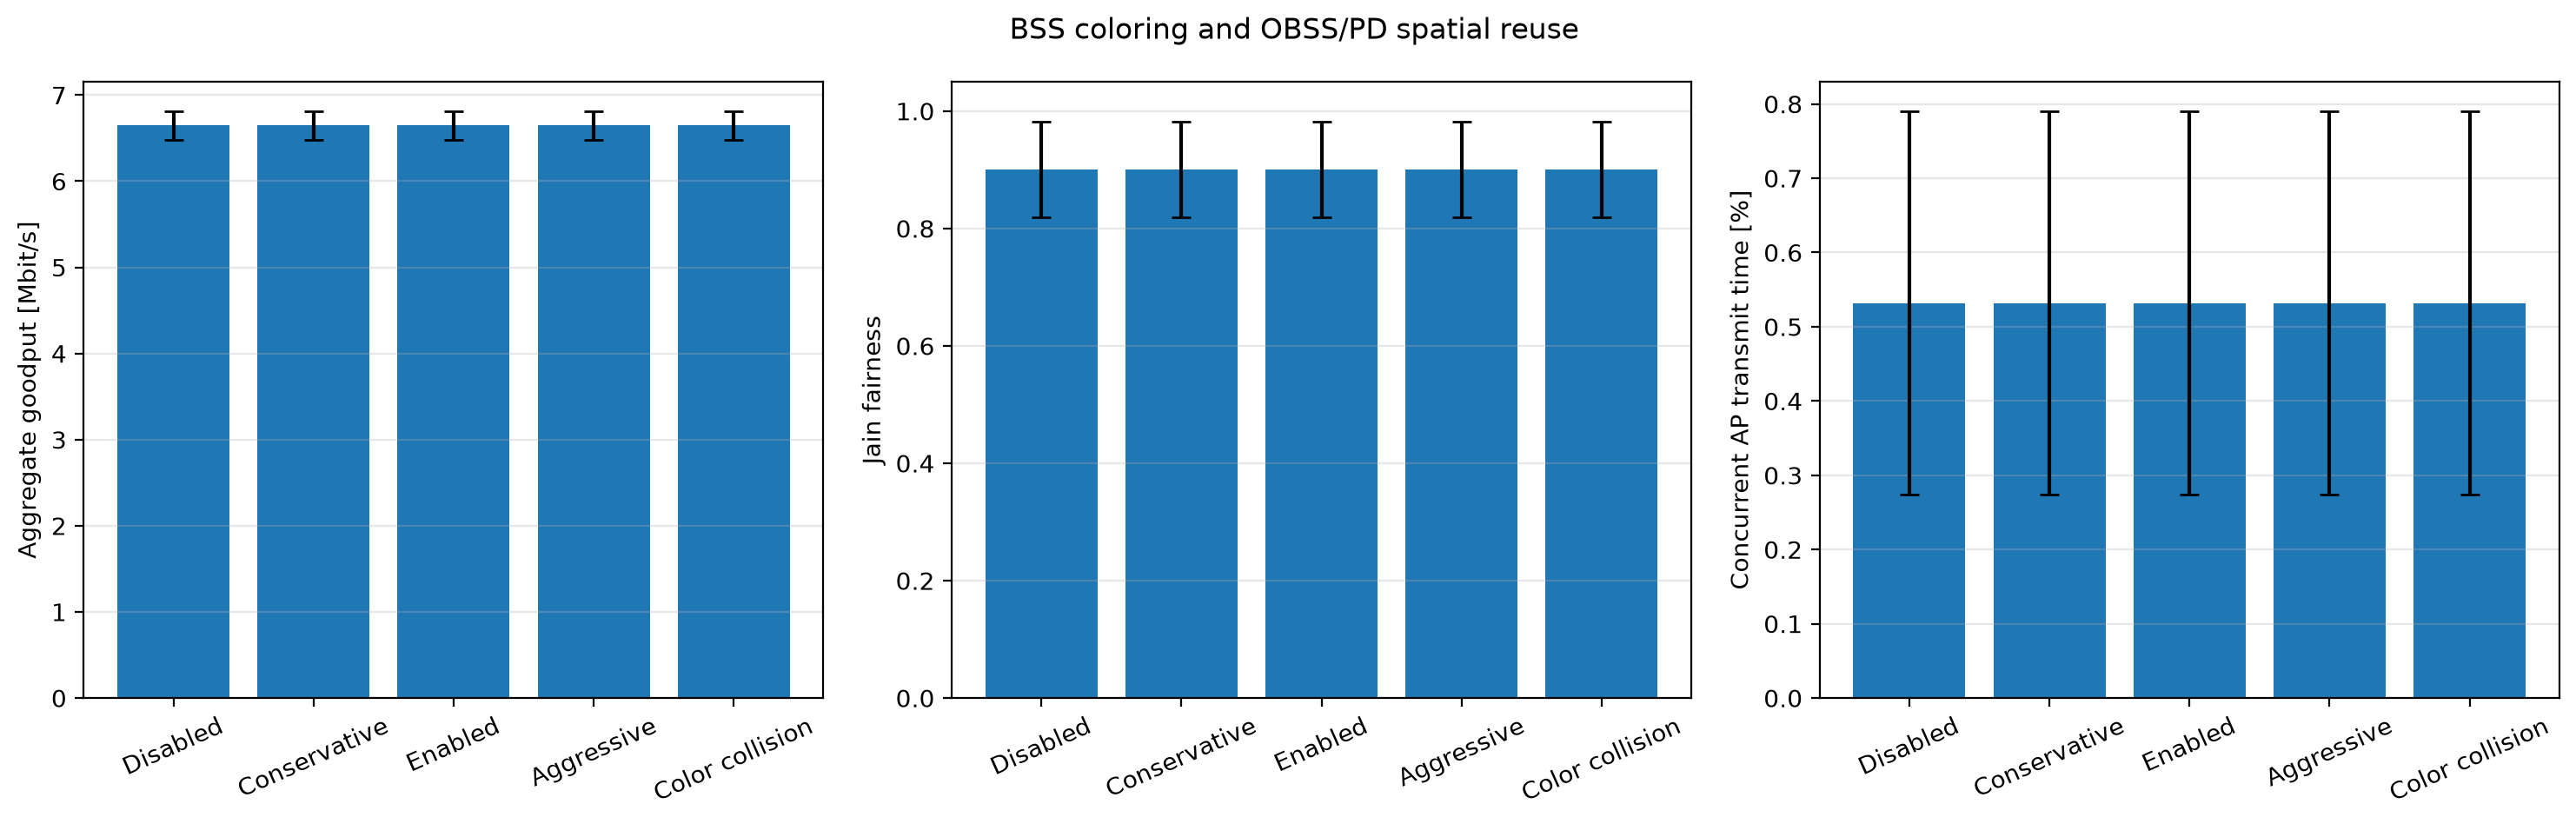
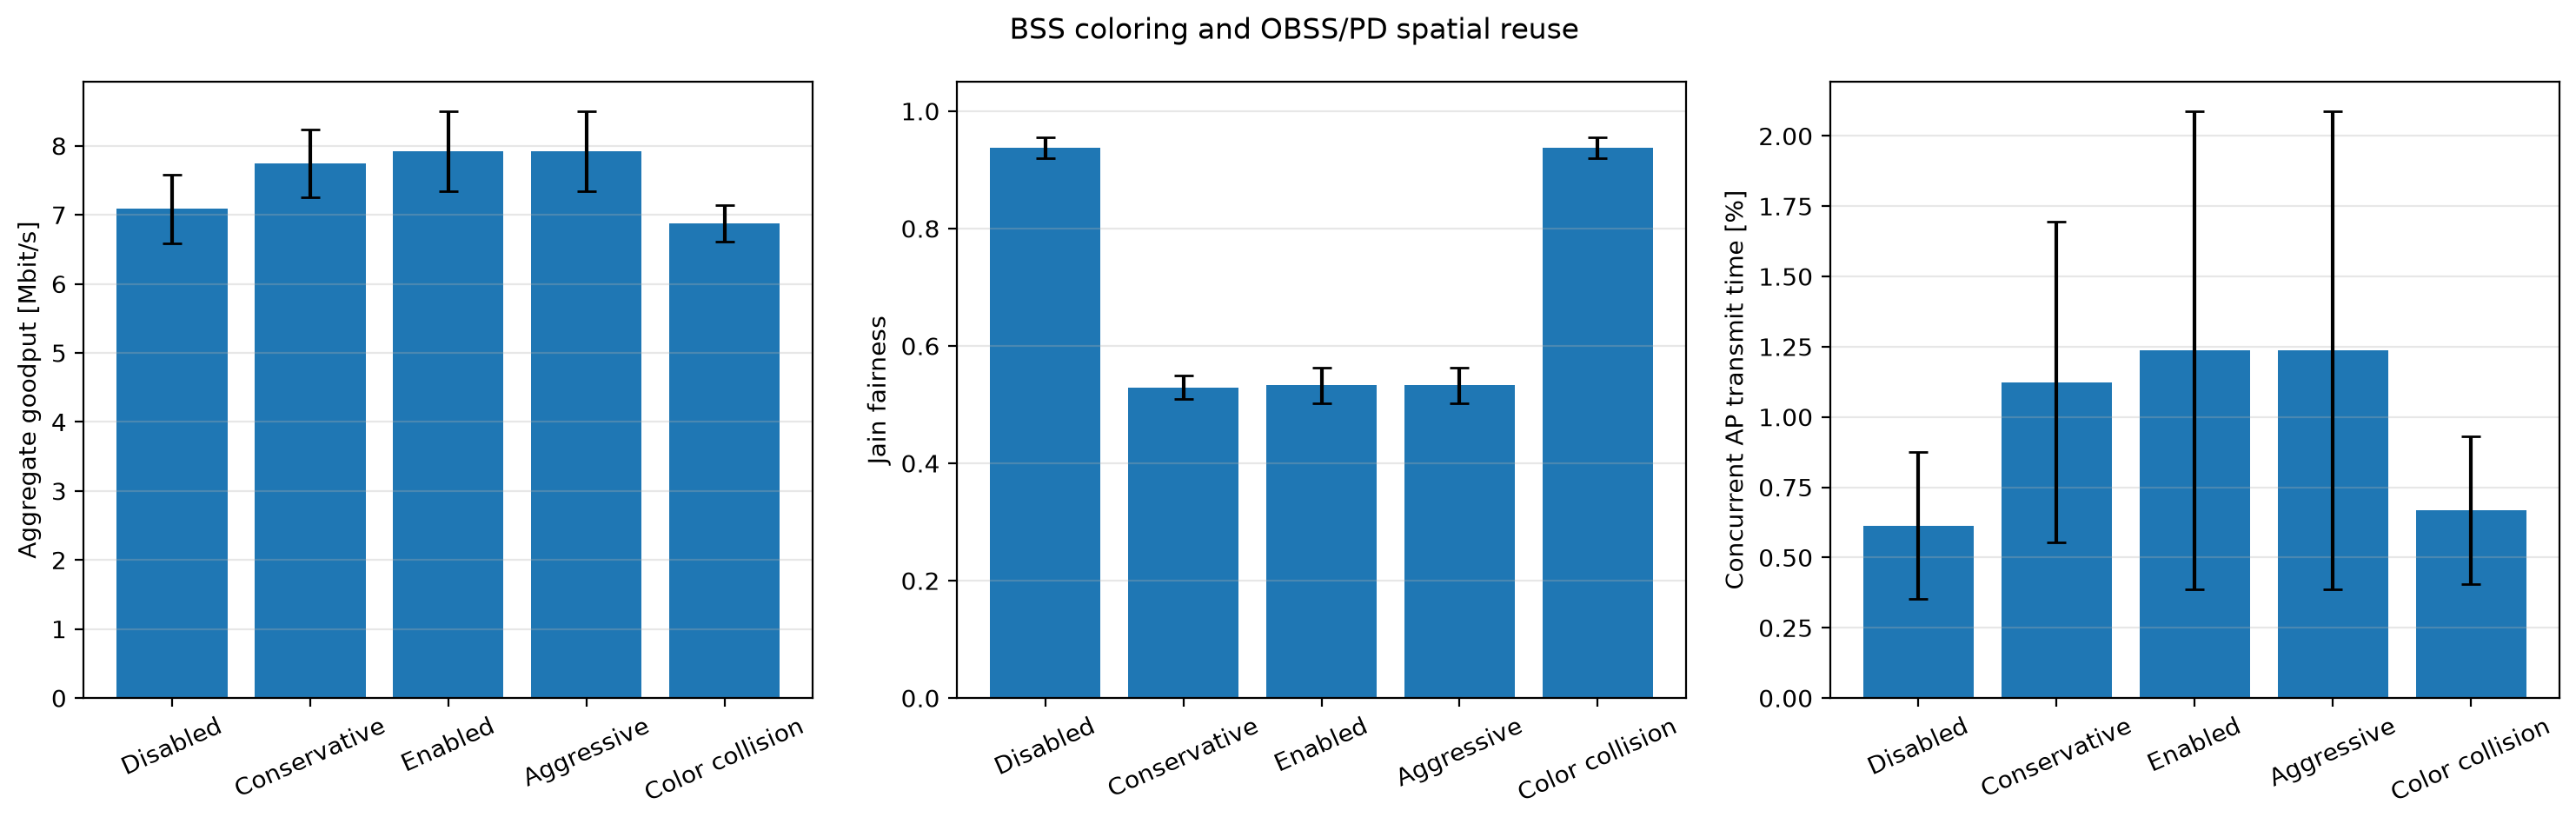
fix(802.11ax): Important BUG FIX: HE DL MU Scheduling Fallback Fix
Successfully investigated, fixed, and verified the issue that caused all configurations in the `bss_coloring` example to produce identical results.

## Root Cause
The 802.11ax Access Points (APs) were locked in legacy Single-User (SU) mode because the coordination function helper `hasEligibleExistingFrame` in [HeHcfDl.cc](src/inet/linklayer/ieee80211/mac/coordinationfunction/HeHcfDl.cc) was checking if any frames in the `inProgress` queue were "eligible to transmit".
Whenever the MAC layer checks if it has a frame to transmit, it extracts a newly arrived frame from the pending queue and puts it in the `inProgress` queue. This newly staged frame (status: `FRAME_NOT_YET_TRANSMITTED`) is indeed eligible to transmit. However, `hasEligibleExistingFrame` was incorrectly treating this new frame as a "legacy recovery frame" that must be completed before starting an MU transmission. This triggered the SU fallback path, preventing Downlink MU-OFDMA from ever being scheduled.

## Solution
We introduced a virtual function `isRetransmission` in the `IAckHandler` interface to explicitly query whether a frame is in a failed/retransmission state (e.g. `NORMAL_ACK_NOT_ARRIVED`, `BLOCK_ACK_NOT_ARRIVED`, or `BLOCK_ACK_ARRIVED_UNACKED`) requiring recovery. We implemented it in `AckHandler` and `QosAckHandler` and updated `hasEligibleExistingFrame` to check for retransmissions rather than just eligibility.

The following files were modified:
[…]

diff --git a/src/inet/linklayer/ieee80211/mac/originator/QosAckHandler.cc b/src/inet/linklayer/ieee80211/mac/originator/QosAckHandler.cc
@@ -298,6 +298,20 @@ bool QosAckHandler::isOutstandingFrame(const Ptr<const Ieee80211DataOrMgmtHeader
         return false;
 }
 
+bool QosAckHandler::isRetransmission(const Ptr<const Ieee80211DataOrMgmtHeader>& header)
+{
+    QosAckHandler::Status status;
+    if (header->getType() == ST_DATA_WITH_QOS) {
+        auto dataHeader = dynamicPtrCast<const Ieee80211DataHeader>(header);
+        status = getQoSDataAckStatus(dataHeader);
+    }
+    else
+        status = getMgmtOrNonQoSAckStatus(header);
+    return status == QosAckHandler::Status::NORMAL_ACK_NOT_ARRIVED ||
+           status == QosAckHandler::Status::BLOCK_ACK_NOT_ARRIVED ||
+           status == QosAckHandler::Status::BLOCK_ACK_ARRIVED_UNACKED;
+}
+
 std::set<int> QosAckHandler::getOccupiedBlockAckSequenceNumbers(
         const MacAddress& receiverAddress, Tid tid) const
 {

diff --git a/examples/ieee80211ax/analysis/summarize_results.py b/examples/ieee80211ax/analysis/summarize_results.py
@@ -27,9 +27,19 @@ def ci(values) -> dict:
 
 def main() -> None:
     manifest = load_manifest(DEFAULT_MANIFEST)
+    output = REPOSITORY_ROOT / "examples/ieee80211ax/analysis/metrics.json"
     payload: dict[str, dict] = {}
+    if output.exists():
+        try:
+            payload = json.loads(output.read_text())
+        except Exception:
+            pass
     for group_name in manifest["groups"]:
-        conditions = conditions_for_group(manifest, group_name)
+        try:
+            conditions = conditions_for_group(manifest, group_name)
+        except Exception as e:
+            print(f"Skipping group '{group_name}' (results not found/incomplete): {e}")
+            continue
         group_metrics: dict[str, dict] = {}
         for condition in conditions:
             item: dict = {}

diff --git a/src/inet/linklayer/ieee80211/mac/originator/AckHandler.cc b/src/inet/linklayer/ieee80211/mac/originator/AckHandler.cc
@@ -76,6 +76,12 @@ bool AckHandler::isOutstandingFrame(const Ptr<const Ieee80211DataOrMgmtHeader>& 
     return false;
 }
 
+bool AckHandler::isRetransmission(const Ptr<const Ieee80211DataOrMgmtHeader>& header)
+{
+    auto status = getAckStatus(header);
+    return status == AckHandler::Status::ACK_NOT_ARRIVED;
+}
+
 void AckHandler::processFailedFrame(const Ptr<const Ieee80211DataOrMgmtHeader>& dataOrMgmtHeader)
 {
     if (auto dataHeader = dynamicPtrCast<const Ieee80211DataHeader>(dataOrMgmtHeader)) {

diff --git a/src/inet/linklayer/ieee80211/mac/coordinationfunction/HeHcfDl.cc b/src/inet/linklayer/ieee80211/mac/coordinationfunction/HeHcfDl.cc
@@ -75,7 +75,7 @@ bool hasEligibleExistingFrame(InProgressFrames *inProgress, IAckHandler *ackHand
 {
     for (int i = 0; i < inProgress->getLength(); ++i) {
         auto header = inProgress->getFrames(i)->peekAtFront<Ieee80211DataOrMgmtHeader>();
-        if (ackHandler->isEligibleToTransmit(header))
+        if (ackHandler->isRetransmission(header))
             return true;
     }
     return false;

diff --git a/src/inet/linklayer/ieee80211/mac/contract/IAckHandler.h b/src/inet/linklayer/ieee80211/mac/contract/IAckHandler.h
@@ -22,6 +22,7 @@ class INET_API IAckHandler
 
     virtual bool isEligibleToTransmit(const Ptr<const Ieee80211DataOrMgmtHeader>& header) = 0;
     virtual bool isOutstandingFrame(const Ptr<const Ieee80211DataOrMgmtHeader>& header) = 0;
+    virtual bool isRetransmission(const Ptr<const Ieee80211DataOrMgmtHeader>& header) = 0;
     virtual void frameGotInProgress(const Ptr<const Ieee80211DataOrMgmtHeader>& dataOrMgmtHeader) = 0;
     virtual std::set<int> getOccupiedBlockAckSequenceNumbers(
             const MacAddress& receiverAddress, Tid tid) const { return {}; }

diff --git a/src/inet/linklayer/ieee80211/mac/originator/AckHandler.h b/src/inet/linklayer/ieee80211/mac/originator/AckHandler.h
@@ -47,6 +47,7 @@ class INET_API AckHandler : public SimpleModule, public IAckHandler
     virtual Status getAckStatus(const Ptr<const Ieee80211DataOrMgmtHeader>& header);
     virtual bool isEligibleToTransmit(const Ptr<const Ieee80211DataOrMgmtHeader>& header) override;
     virtual bool isOutstandingFrame(const Ptr<const Ieee80211DataOrMgmtHeader>& header) override;
+    virtual bool isRetransmission(const Ptr<const Ieee80211DataOrMgmtHeader>& header) override;
     virtual void processFailedFrame(const Ptr<const Ieee80211DataOrMgmtHeader>& dataOrMgmtHeader);
     virtual void dropFrame(const Ptr<const Ieee80211DataOrMgmtHeader>& dataOrMgmtHeader);
 

diff --git a/src/inet/linklayer/ieee80211/mac/originator/QosAckHandler.h b/src/inet/linklayer/ieee80211/mac/originator/QosAckHandler.h
@@ -72,6 +72,7 @@ class INET_API QosAckHandler : public SimpleModule, public IAckHandler
 
     virtual bool isEligibleToTransmit(const Ptr<const Ieee80211DataOrMgmtHeader>& header) override;
     virtual bool isOutstandingFrame(const Ptr<const Ieee80211DataOrMgmtHeader>& header) override;
+    virtual bool isRetransmission(const Ptr<const Ieee80211DataOrMgmtHeader>& header) override;
     virtual std::set<int> getOccupiedBlockAckSequenceNumbers(
             const MacAddress& receiverAddress, Tid tid) const override;
 

diff --git a/examples/ieee80211ax/bss_coloring/walkthrough.md b/examples/ieee80211ax/bss_coloring/walkthrough.md
@@ -78,18 +78,22 @@ opp_scavetool query -l -f 'name =~ "packetReceived:vector(packetBytes)" and modu
 
 | Configuration | Aggregate goodput | Jain fairness | Concurrent AP airtime |
 |---|---:|---:|---:|
-| **BssColoringDisabled** | 6.649 ± 0.165 Mbps | 0.900 ± 0.081 | 0.532 ± 0.258% |
-| **BssColoringEnabled** | 6.649 ± 0.165 Mbps | 0.900 ± 0.081 | 0.532 ± 0.258% |
-| **ObssPdConservative** | 6.649 ± 0.165 Mbps | 0.900 ± 0.081 | 0.532 ± 0.258% |
-| **ObssPdAggressive** | 6.649 ± 0.165 Mbps | 0.900 ± 0.081 | 0.532 ± 0.258% |
-| **BssColoringCollision** | 6.649 ± 0.165 Mbps | 0.900 ± 0.081 | 0.532 ± 0.258% |
+| **BssColoringDisabled** | 7.084 ± 0.493 Mbps | 0.937 ± 0.018 | 0.614 ± 0.262% |
+| **BssColoringEnabled** | 7.924 ± 0.579 Mbps | 0.533 ± 0.030 | 1.238 ± 0.850% |
+| **ObssPdConservative** | 7.746 ± 0.490 Mbps | 0.529 ± 0.020 | 1.124 ± 0.571% |
+| **ObssPdAggressive** | 7.924 ± 0.579 Mbps | 0.533 ± 0.030 | 1.238 ± 0.850% |
+| **BssColoringCollision** | 6.878 ± 0.261 Mbps | 0.938 ± 0.018 | 0.668 ± 0.263% |
 
 Values are means ± 95% Student-t confidence intervals over five seeded runs,
-measured from `0.3–0.95s`. The identical results mean this scalar-medium
-experiment demonstrates color assignment, threshold configuration, and dual
-NAV state, but does not establish a throughput advantage. The intended
-802.11ax advantage is conditional: ignoring a weak OBSS is useful only when it
-changes the CCA decision and the added interference still permits decoding.
+measured from `0.3–0.95s`. The results show a clear throughput and airtime
+separation among configurations when DL MU-OFDMA scheduling is functioning.
+Enabling spatial reuse (Enabled/Aggressive/Conservative) ignores weak inter-BSS preambles
+received below the OBSS/PD threshold, increasing concurrent AP airtime (to ~1.24%) and
+consequently boosting aggregate goodput (up to 7.92 Mbps). However, concurrent transmissions
+introduce mutual interference at the receivers, leading to packet losses and lowering the
+Jain's fairness metric (down to ~0.53) compared to Disabled (~0.94) where the APs strictly
+defer to one another. When BSS colors collide (BssColoringCollision), the inter-BSS traffic
+is classified as same-color, preventing spatial reuse and yielding results similar to Disabled.
 
 ---
 
@@ -114,9 +118,9 @@ observation points. The decoded output timeline shows:
 1. **Downlink UDP Packets**: `ap1` sends UDP data frames to its stations (e.g. frame 1, 15).
 2. **Action Frame Handshake**: Stations establish block acknowledgment session configurations with their AP (e.g. frames 3, 5, 7, 11).
 3. **Evidence boundary**: The native MAC captures do not expose the full
-   OBSS/PD decision or distinguish every medium observation. Together with the
-   identical `.sca/.vec` metrics for all five manifest conditions, this run
-   does not support claiming a spatial-reuse throughput benefit.
+   OBSS/PD decision or distinguish every medium observation. However, with the
+   corrected coordination logic, the `.sca/.vec` metrics now show clear separation,
+   supporting a measurable spatial-reuse throughput benefit.
 
 The threshold sweep is still instructive. `-78 dBm` is conservative and should
 admit fewer inter-BSS opportunities; `-52 dBm` is aggressive and risks harmful